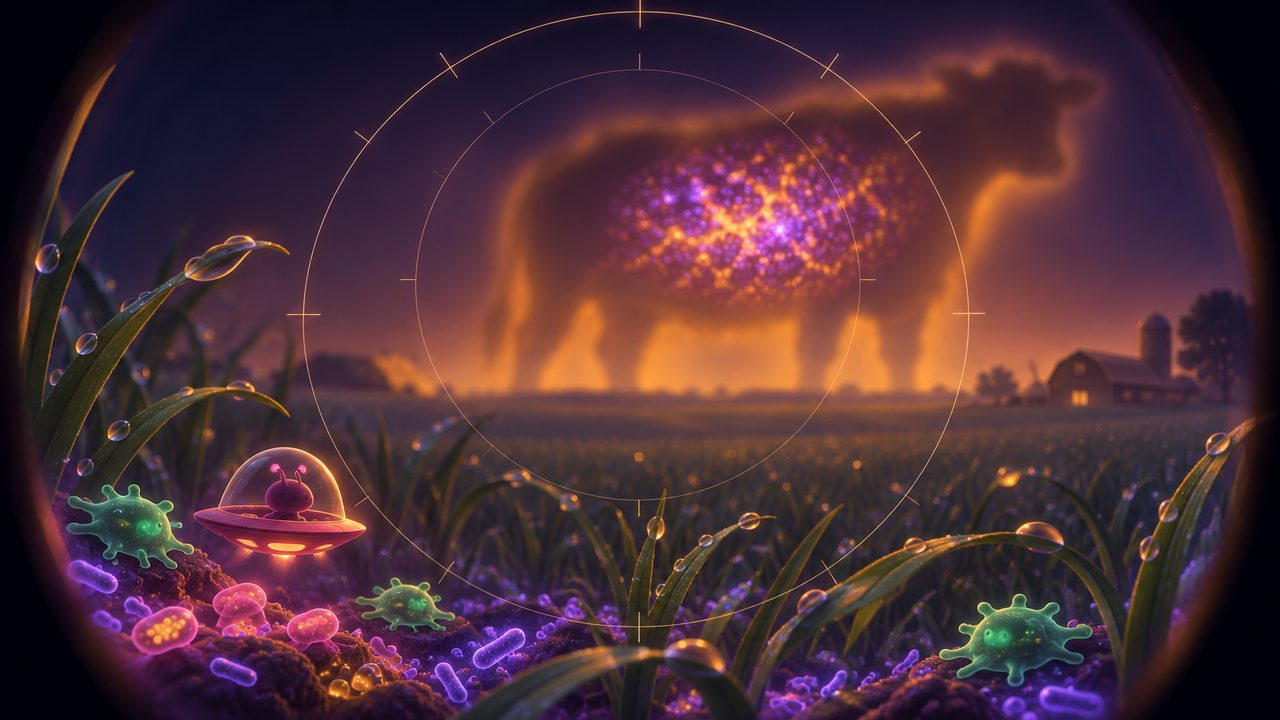
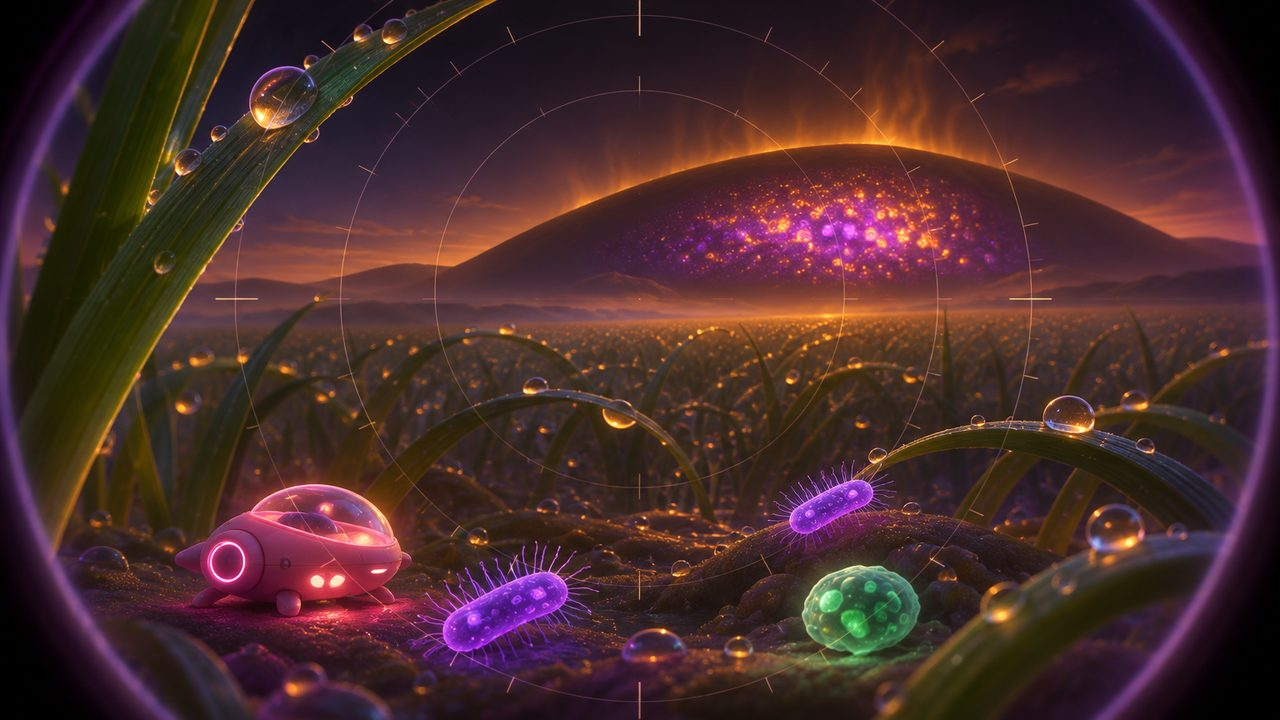
Look Alive: to the aliens the creature is a warm mountain, too big and slow to be alive; new sensor image and matching intro and World text
Claude-Session: https://claude.ai/code/session_01NkcHs7p9a2fEUCrHeqGy77

diff --git a/games/look-alive/game.js b/games/look-alive/game.js
@@ -176,8 +176,8 @@
   var INTRO = [
     ['Arrival', 'You are very small.', 'So is everyone you know. You travelled a long way to find this: a blue and green world, thick with life.'],
     ['Landing', 'The ground is mountains.', 'We went down to the surface. Our eyes are small, so every grain of soil is a mountain and one drop of water is a lake.'],
-    ['Sensors', 'Something enormous and warm.', 'Our sensors found it nearby, and inside it a crowd of life, denser than anything we have ever seen.'],
-    ['The crowd', 'It must be a civilization.', 'So many, so close, so busy. Where we come from, a crowd like this means a civilization. We think this is a city, so we will treat it as one.'],
+    ['Sensors', 'A warm mountain.', 'Our sensors found a mountain nearby that gives off heat. It is far too big and too still to be alive. But inside it, there is a crowd of life, denser than anything we have ever seen.'],
+    ['The crowd', 'It must be a civilization.', 'So many, so close, so busy. Where we come from, a crowd like this means a civilization. We think a city lives inside the warm mountain, so we will treat it as one.'],
     ['The plan', 'We must blend in.', 'Our scouts took samples. Before we go in, we have to look like the locals, so first we test our disguise in a petri dish.']
   ];
   function renderIntro() {

diff --git a/games/look-alive/index.html b/games/look-alive/index.html
@@ -47,7 +47,7 @@
   <section class="screen" id="screen-list">
     <div class="listwrap">
       <h1>Pass as a native.</h1>
-      <p class="lede">Your people took the inside of a huge warm creature for a city, and your cell has gone in to blend in. Watch it fail, change it, and try again. The cell that wins a dish is the cell you start the next one with.</p>
+      <p class="lede">Your people think a city lives inside a warm mountain, and your cell has gone in to blend in. Watch it fail, change it, and try again. The cell that wins a dish is the cell you start the next one with.</p>
       <div id="dishList"></div>
       <div class="listfoot"><button type="button" class="ghost" id="replayIntro">Replay intro</button><button type="button" class="ghost" id="unlockAll">Unlock all dishes</button><button type="button" class="ghost" id="resetProgress">Clear saved progress</button></div>
     </div>

diff --git a/games/look-alive/levels.js b/games/look-alive/levels.js
@@ -54,9 +54,9 @@ var LookAliveLevels = (function () {
   var WORLD = {
     name: 'The warm crowd',
     facts: [
-      'We think it is a city: warm, wet and more crowded than anything we know.',
+      'We think a city lives inside a warm mountain: wet, crowded, busy.',
       'The water is acid. Anything unprotected dissolves.',
-      'Food comes in bursts. The locals just eat, divide and die, on instinct.',
+      'Food comes in bursts. The locals feed, divide and die. We cannot tell why.',
       'Green guards attack anything that does not belong, once they notice it.',
       'Everyone leaves a sour trail. The wrong waste, or none, stands out.',
       'Our samples name the locals: Lactobacillus, Streptococcus, Helicobacter pylori.'
